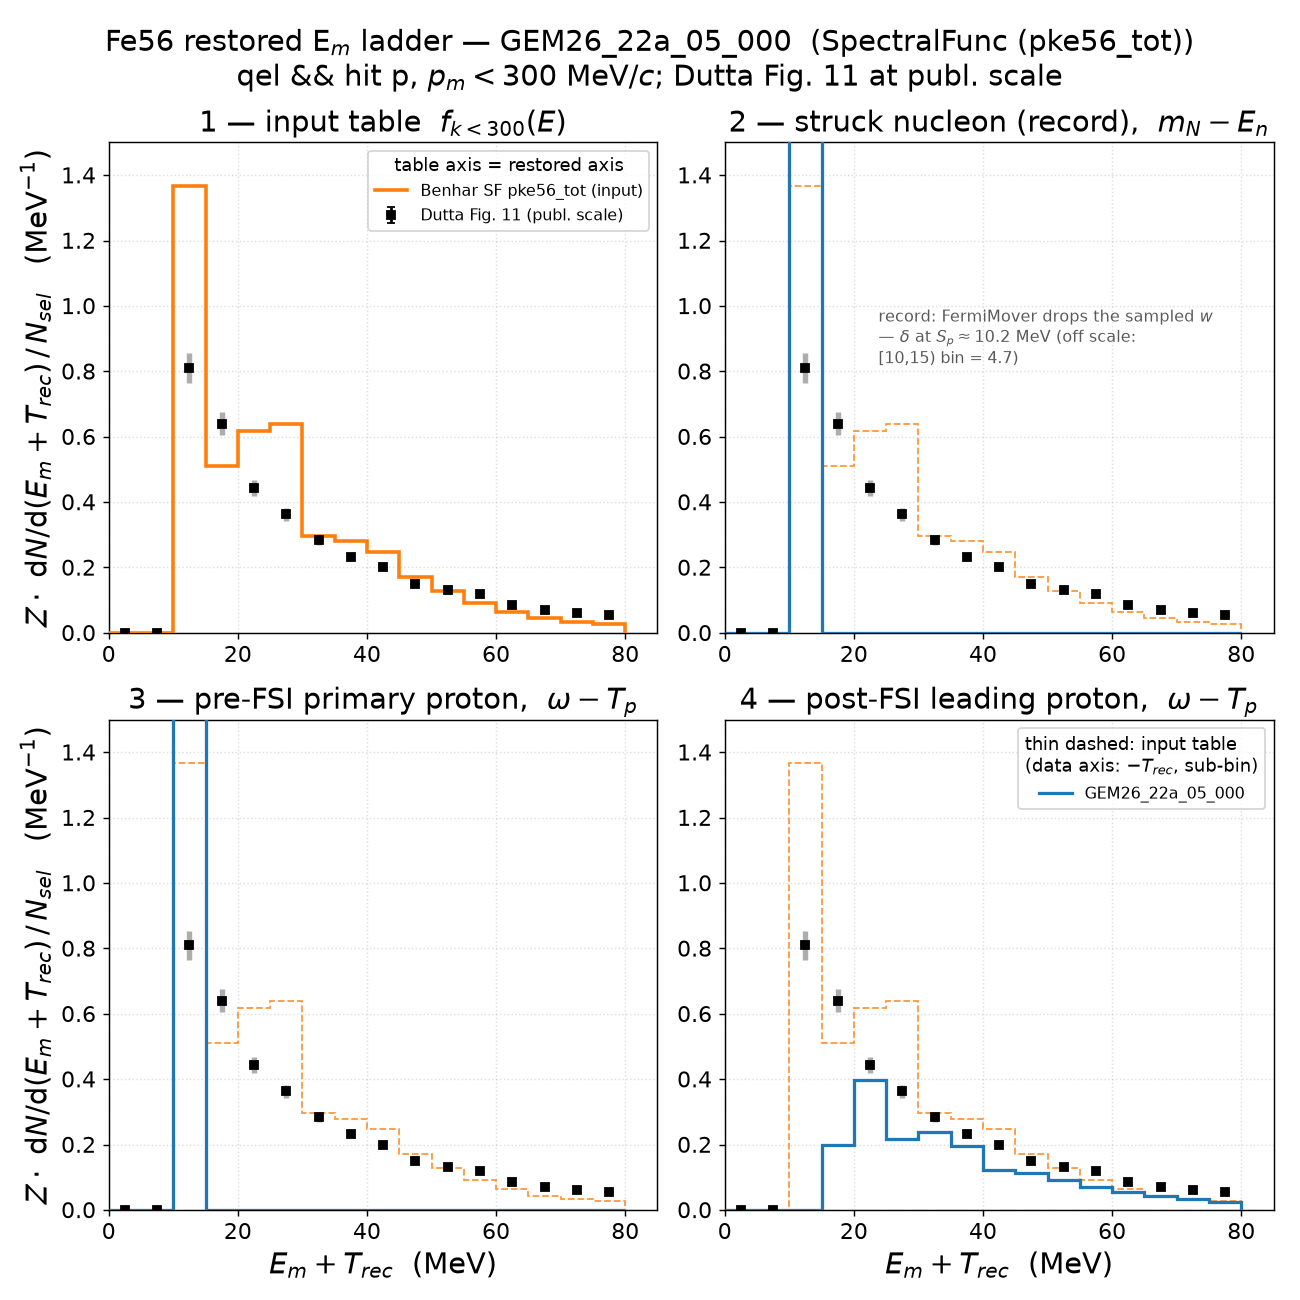
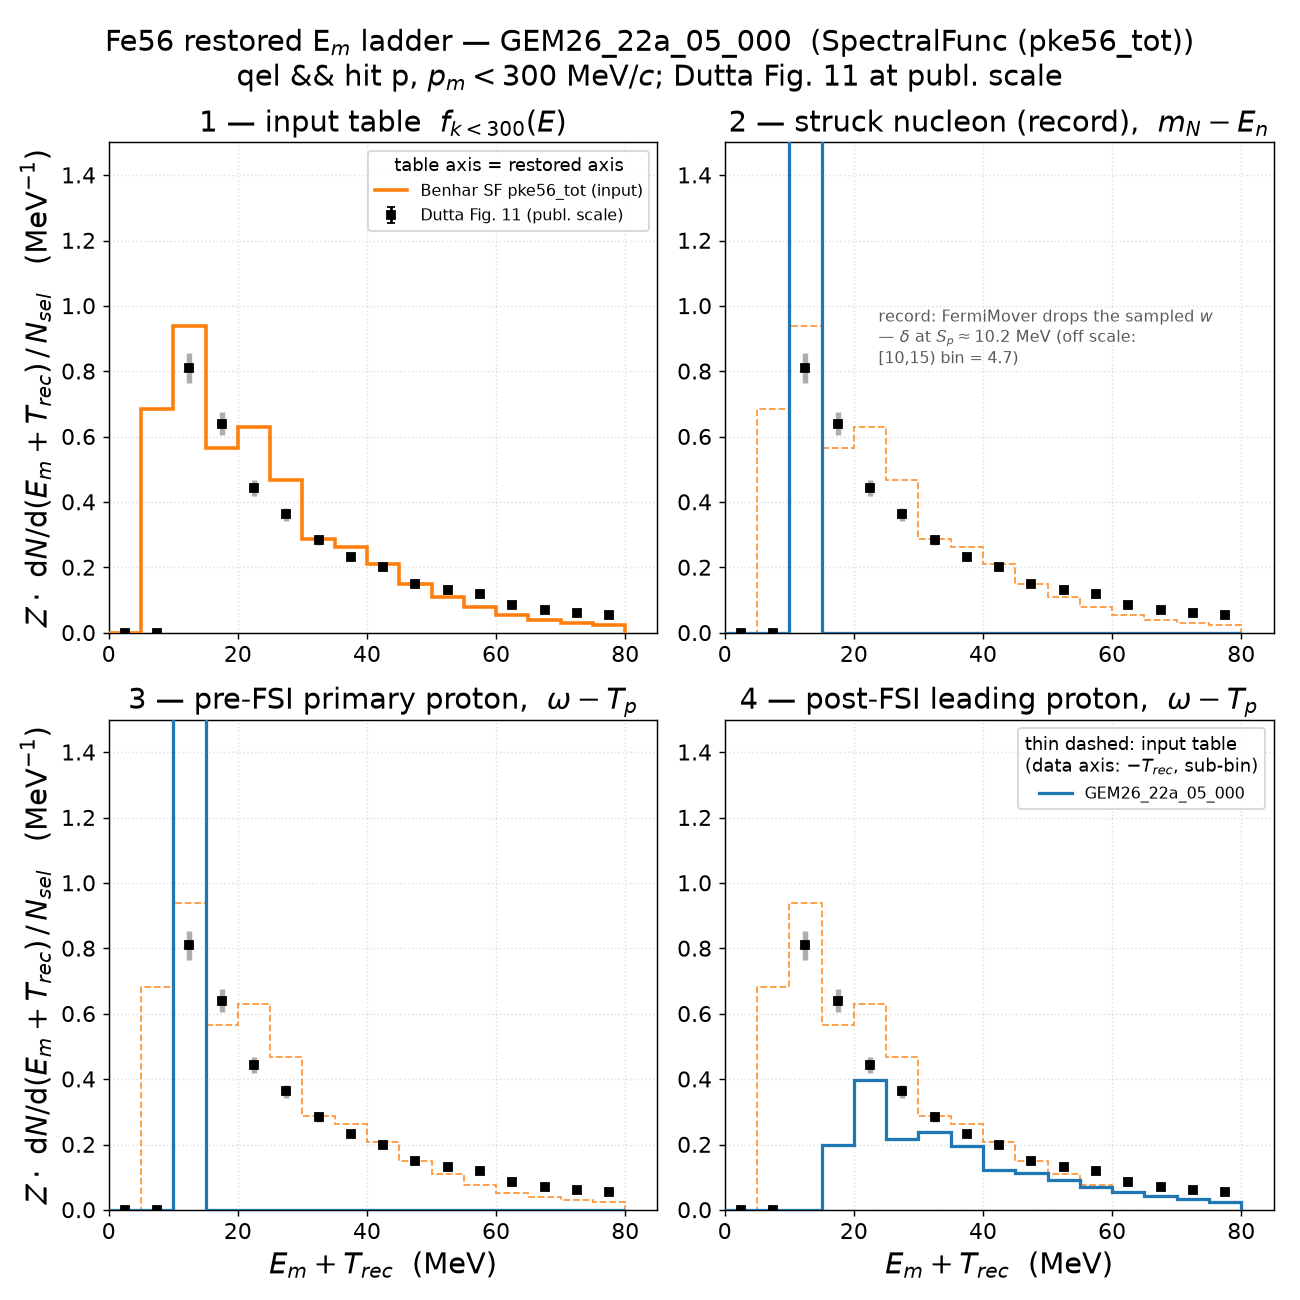
results: fix half-bin table rebin; 22b record is an exact restoration
The apparent low-shift of the 22b record vs the input table was a
rebinning artifact, not BindHitNucleon: the pke56_tot grid is centered
at 5,10,... MeV (offset half a bin from the 0,5,10 plot grid) and
GetRandom2 samples uniformly within table bins, while the stage-1 rebin
deposited each column at its center. rebin() now spreads each table
column over its native bin.

Verified per-event from GHEP dumps (18,485 QEL protons): m_N - E_n =
E_sampled exactly -- (m_N-E_n) - w_stored reproduces k^2/2(M_Mn55+E) to
<1.5 keV (QELUtils.cxx SpectralFunc case cancels on the restored axis;
it only lowers the stored RemovalEnergy by <=0.9 MeV), and the record
has zero strength below the table support on the native grid. Residual
22b record-vs-table difference (peak 1.03 vs 0.94) = UnifiedQEL xsec
weighting. Note corrected in place; I1 22.577 -> 22.630 (edge effect).
All four figures regenerated. The C12 fig9_common.rebin shares the
center-deposit behavior (flagged, v0 scripts untouched).

diff --git a/results/template/make_emiss_ladder_fe56.py b/results/template/make_emiss_ladder_fe56.py
@@ -101,11 +101,18 @@ def f_restricted(k, P, dk, kmax=PM_MAX):
 
 
 def rebin(E, f, dE, edges):
+    """Rebin treating each table column as a uniform density over its native
+    bin [E-dE/2, E+dE/2) -- NOT a point mass at the center. The table grid is
+    offset by half a bin from the plot grid (centers 5,10,... vs edges
+    0,5,10,...), and GetRandom2 samples uniformly within table bins, so
+    center-deposit rebinning fakes a ~2.5 MeV shift between stage 1 and the
+    event stages (verified per-event: m_N - E_n = E_sampled exactly)."""
     dE = np.broadcast_to(np.asarray(dE, dtype=float), E.shape)
     out = np.zeros(len(edges) - 1)
     for i, (lo, hi) in enumerate(zip(edges[:-1], edges[1:])):
-        m = (E >= lo) & (E < hi)
-        out[i] = (f[m] * dE[m]).sum() / (hi - lo)
+        ov = np.clip(np.minimum(E + dE / 2.0, hi) - np.maximum(E - dE / 2.0, lo),
+                     0.0, None)
+        out[i] = (f * ov).sum() / (hi - lo)
     return out
 
 
@@ -253,8 +260,8 @@ def make_figure(tune, max_files, dutta, table):
     pk = max(h[2].max(), h[3].max())
     if tune == "GEM26_22b_05_000":
         note = ("b-tune record: QELEventGenerator keeps\nthe sampled $w$ — "
-                "broadly restores the dashed\ntable, but shifted low "
-                "(BindHitNucleon\nconvention; strength below $S_p$)")
+                "$m_N-E_n=E_{sampled}$ exactly\n(verified to keV); residual "
+                "shape difference\n= UnifiedQEL xsec weighting")
     elif tune == "GEM21_11a_05_000":
         note = ("SuSA record: $m_N-E_n=-T_N<0$,\noff scale left "
                 f"(median {med2:.1f} MeV).\nFe56 EM SuSAv2 = scaled-C12 surrogate")

diff --git a/results/prd-analyzer-v0.1/electron_fe56_scattering.md b/results/prd-analyzer-v0.1/electron_fe56_scattering.md
@@ -54,8 +54,8 @@ Summary (occupancy units, E < 80 MeV, p_s < 300 MeV/c):
 | tune | N_sel (of 2M) | I1 (table) | I2r = I3r | I4r | I4r/I3r | record median [p5, p95] MeV |
 |---|---|---|---|---|---|---|
 | GEM26_11a_05_000 | 251,502 (12.6%) | — | 26.000 | 10.619 | 0.408 | 10.45 [10.22, 10.75] |
-| GEM26_22a_05_000 | 254,047 (12.7%) | 22.577 | 23.423 | 8.997 | 0.384 | 10.48 [10.24, 10.88] |
-| GEM26_22b_05_000 | 186,694 (9.3%) | 22.577 | 23.976 | 9.621 | 0.401 | 20.47 [8.32, 59.29] |
+| GEM26_22a_05_000 | 254,047 (12.7%) | 22.630 | 23.423 | 8.997 | 0.384 | 10.48 [10.24, 10.88] |
+| GEM26_22b_05_000 | 186,694 (9.3%) | 22.630 | 23.976 | 9.621 | 0.401 | 20.47 [8.32, 59.29] |
 | GEM21_11a_05_000 | 213,209 (10.7%) | — | 0.000 / 24.448 | 10.037 | 0.411 | −14.38 [−30.52, −1.78] |
 
 I2r = I3r in every tune (energy-conserving pre-FSI chain; GEM21's I2r = 0 is
@@ -94,7 +94,7 @@ into a shape that tracks the data tail but, as everywhere, misses the
 ![Fe56 restored E_m ladder, GEM26_22a_05_000 vs Dutta Fig. 11](em_ladder_restored_fe56_GEM26_22a_05_000.png)
 
 The Fe56 instance of the C12 **a-tune finding**: the tune samples the 2D SF
-(panel 1, I1 = 22.577 of 26 in-window — the rest is the k > 300 MeV/c SRC
+(panel 1, I1 = 22.630 of 26 in-window — the rest is the k > 300 MeV/c SRC
 tail), but FermiMover writes `En = M_A − √(p² + M²_Mn55,gs)` into the record,
 dropping the sampled w — panel 2 is a δ at S_p ([10,15) bin = 4.7, off scale;
 the sampled physics survives only in `GHepParticle::RemovalEnergy`, section 1).
@@ -112,12 +112,21 @@ tracking the data above ~20 MeV.
 ![Fe56 restored E_m ladder, GEM26_22b_05_000 vs Dutta Fig. 11](em_ladder_restored_fe56_GEM26_22b_05_000.png)
 
 The **b-tune contrast**: `QELEventGenerator` keeps the sampled w in the
-off-shell energy, so the record (median 20.5 MeV, p5–p95 [8.3, 59.3]) broadly
-restores the dashed table instead of collapsing to a δ — but shifted low, with
-strength in [5,10) below S_p where the table is empty (the `BindHitNucleon`
-recoil-convention issue; the C12 study measured 23.1% of 22b strength below
-S_p on the data axis — still an open question). Of the four tunes this record
-is the closest in shape to the data. QEL fraction is 9.3% vs 22a's 12.7%,
+off-shell energy, and the restoration is **exact**: per-event,
+m_N − E_n = E_sampled to keV precision (verified from the GHEP dumps —
+(m_N − E_n) − w_stored reproduces k²/2(M_Mn55+E) to <1.5 keV, i.e. the
+`BindHitNucleon` SpectralFunc reinterpretation lowers only the *stored*
+RemovalEnergy by ≤0.9 MeV and cancels identically on this axis; on the
+table-native grid the record has zero strength below the table's support).
+The record (median 20.5 MeV, p5–p95 [8.3, 59.3]) sits on the dashed table,
+with the residual shape difference — peak 1.03 vs 0.94 — coming from the
+UnifiedQEL cross-section weighting of the sampled kinematics. An earlier
+version of this note attributed an apparent down-shift to `BindHitNucleon`:
+that was a half-bin rebinning artifact (the table grid is centered at
+5, 10, … MeV, offset by 2.5 MeV from the plot grid, and `GetRandom2` samples
+uniformly within table bins), fixed by spreading each table column over its
+native bin in the stage-1 rebin. Of the four tunes this record is the
+closest in shape to the data. QEL fraction is 9.3% vs 22a's 12.7%,
 consistent with the SF-folded UnifiedQEL cross section being smaller than
 Rosenbluth (spline QE σ 1.85 vs 2.75 ×10⁻⁴).
 
